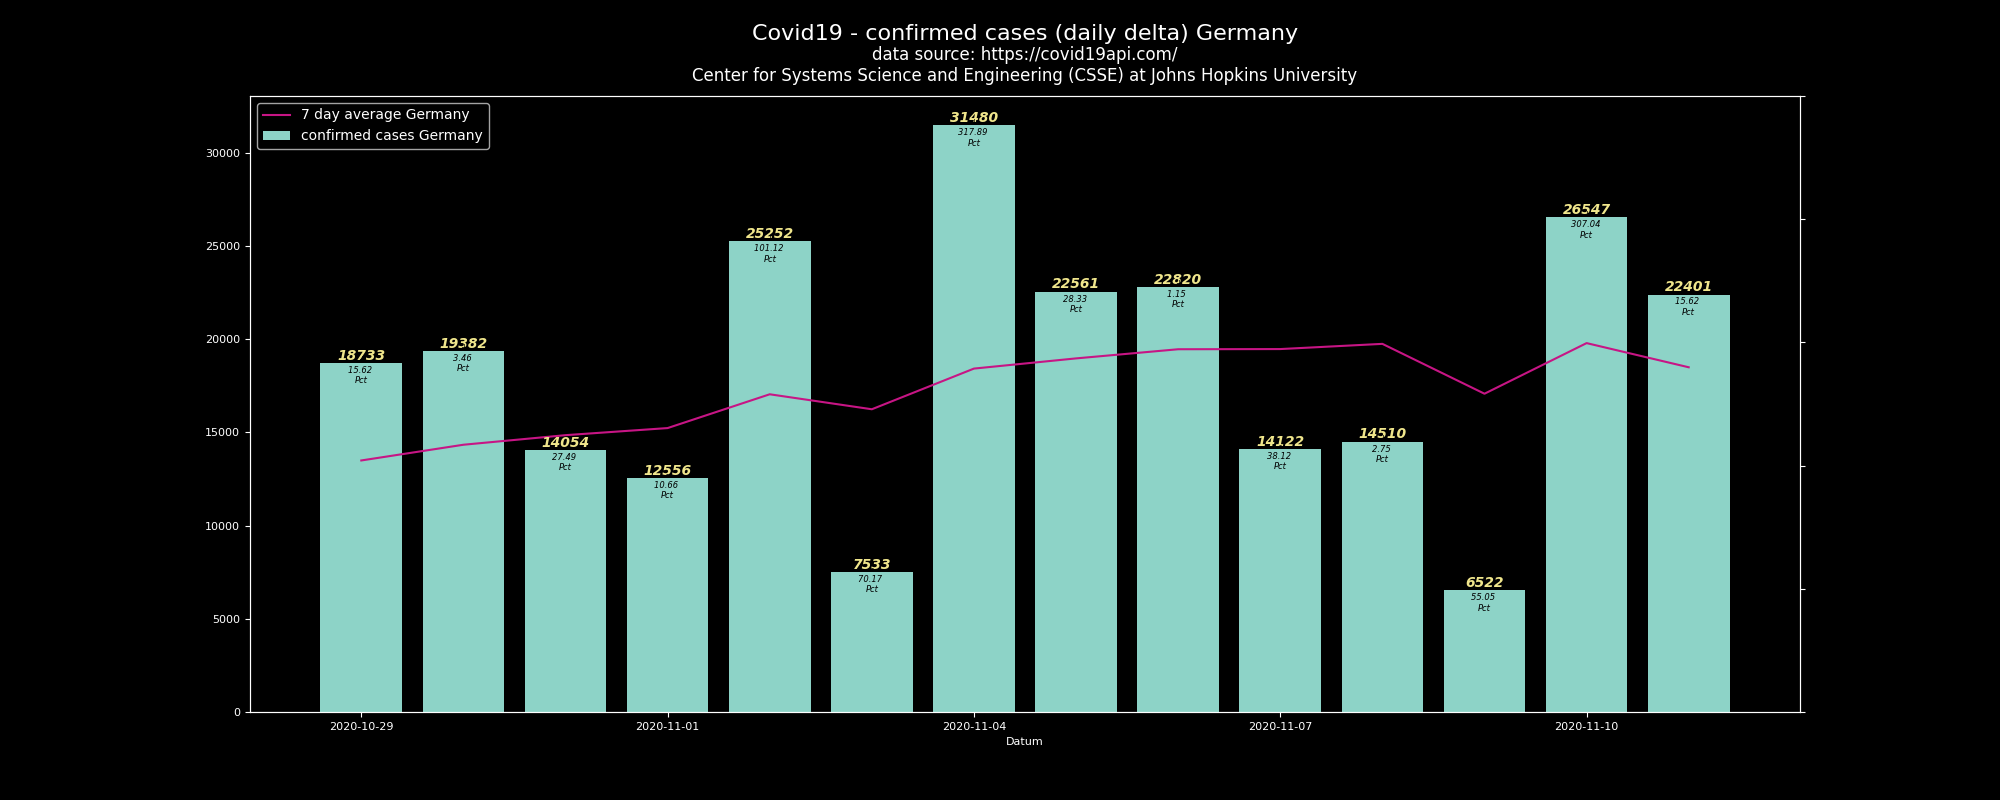
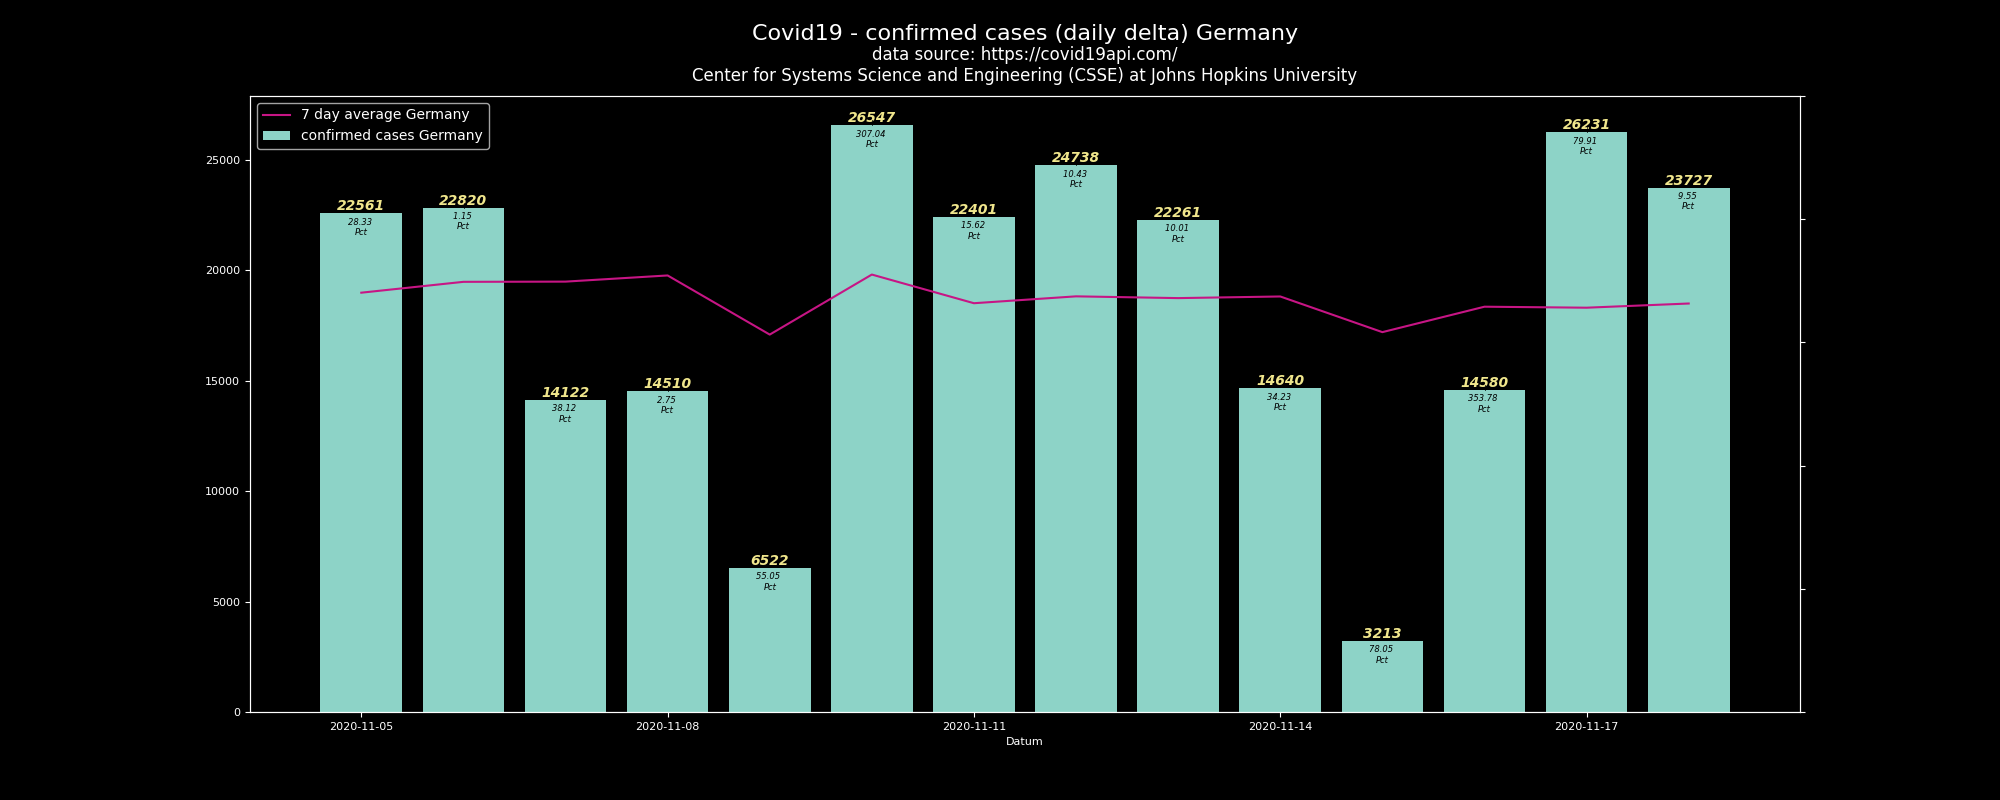
api changes RKI

diff --git a/html_output/covid.html b/html_output/covid.html
@@ -106,7 +106,7 @@ span {color: red;
     </tr>
   </thead>
   <tbody>
-      <tr><td class="align-middle">1</td><td>SK Ingolstadt</td> <td style=color:white;background-color:#8B0000 important!;>  221,9</td><td class=font-effect-fire-animation style=text-align:right important!>    8,0 </td><td><img src="https://storage.googleapis.com/darkshadow-share/red_up.png" class="arrow"></td></tr><tr><td class="align-middle">2</td><td>LK Pfaffenhofen a.d.Ilm</td> <td style=color:white;background-color:#8B0000 important!;>  195,7</td><td style=text-align:right important!>   -3,9</td><td><img src="https://storage.googleapis.com/darkshadow-share/green_down.png" class="arrow"></td></tr><tr><td class="align-middle">3</td><td>LK Eichstätt</td> <td style=color:white;background-color:#8B0000 important!;>  147,5</td><td class=font-effect-fire-animation style=text-align:right important!>    4,6 </td><td><img src="https://storage.googleapis.com/darkshadow-share/red_up.png" class="arrow"></td></tr><tr><td class="align-middle">4</td><td>LK Kelheim</td> <td style=color:white;background-color:#8B0000 important!;>  118,6</td><td style=text-align:right important!>   -4,9</td><td><img src="https://storage.googleapis.com/darkshadow-share/green_down.png" class="arrow"></td></tr>
+      <tr><td class="align-middle">1</td><td>SK Ingolstadt</td> <td style=color:white;background-color:#8B0000 important!;>  179,7</td><td style=text-align:right important!>  -42,2</td><td><img src="https://storage.googleapis.com/darkshadow-share/green_down.png" class="arrow"></td></tr><tr><td class="align-middle">2</td><td>LK Pfaffenhofen a.d.Ilm</td> <td style=color:white;background-color:#8B0000 important!;>  173,1</td><td style=text-align:right important!>  -22,6</td><td><img src="https://storage.googleapis.com/darkshadow-share/green_down.png" class="arrow"></td></tr><tr><td class="align-middle">3</td><td>LK Eichstätt</td> <td style=color:white;background-color:#8B0000 important!;>  159,5</td><td class=font-effect-fire-animation style=text-align:right important!>   12,0 </td><td><img src="https://storage.googleapis.com/darkshadow-share/red_up.png" class="arrow"></td></tr><tr><td class="align-middle">4</td><td>LK Kelheim</td> <td style=color:white;background-color:#8B0000 important!;>  132,4</td><td class=font-effect-fire-animation style=text-align:right important!>   13,8 </td><td><img src="https://storage.googleapis.com/darkshadow-share/red_up.png" class="arrow"></td></tr>
       
                    
                     <tr><td colspan = 5  style=text-align:center important!;">
@@ -124,12 +124,12 @@ span {color: red;
                                         padding: 10px;
                                         ">
                                     Neuinfektionen gg Vortag DE (RKI)
-                            <br><span>17.561</span><br></td></div></tr>
+                            <br><span>22.609</span><br></td></div></tr>
                             </td> 
                     
                               
                     
-      <tr><td colspan = 2 >Letzte Aktualisierung</td> <td colspan=3>18.11.2020, 00:00 Uhr</td></tr>
+      <tr><td colspan = 2 >Letzte Aktualisierung</td> <td colspan=3>19.11.2020, 00:00 Uhr</td></tr>
       
       <tr><td colspan = 5><img src="https://storage.googleapis.com/darkshadow-share/plot.png" class="plot"></td></tr>
   </tbody>

diff --git a/covid.py b/covid.py
@@ -28,19 +28,15 @@ def retrieve_covid_data():
     data_IN = pd.read_json(url_IN, lines=True)
 
     data_rki = pd.DataFrame([])
-    data_rki = pd.read_json(rki_url)
-
+    data_rki = pd.read_json(rki_url, lines=True)
+   
     global by_rki, de_rki
     if data_rki.empty:
         print ("RKI Daten nicht verfuegbar")
     else:
-        last_update_rki = pd.to_datetime(data_rki['lastUpdate'], unit='ms').max()
-        last_update_rki = last_update_rki + timedelta(hours=1)
-        df_rki= pd.json_normalize(data_rki['states']) 
-
-    by_rki = df_rki.loc[[8],"count"]
-    by_rki = by_rki.iloc[0]
-    de_rki = df_rki['count'].sum()
+        de_rki_list = data_rki.values.tolist()
+        last_update_rki = de_rki_list[0][0]
+        de_rki = de_rki_list[0][2]
 
     if data.empty:
         print ("API Germany is not responding ...")
